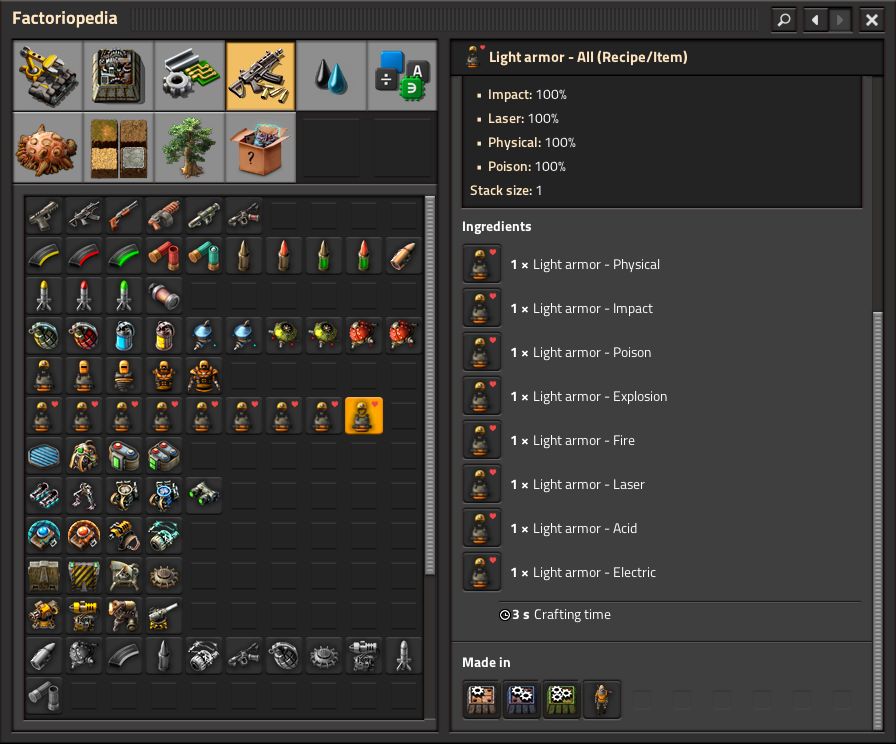
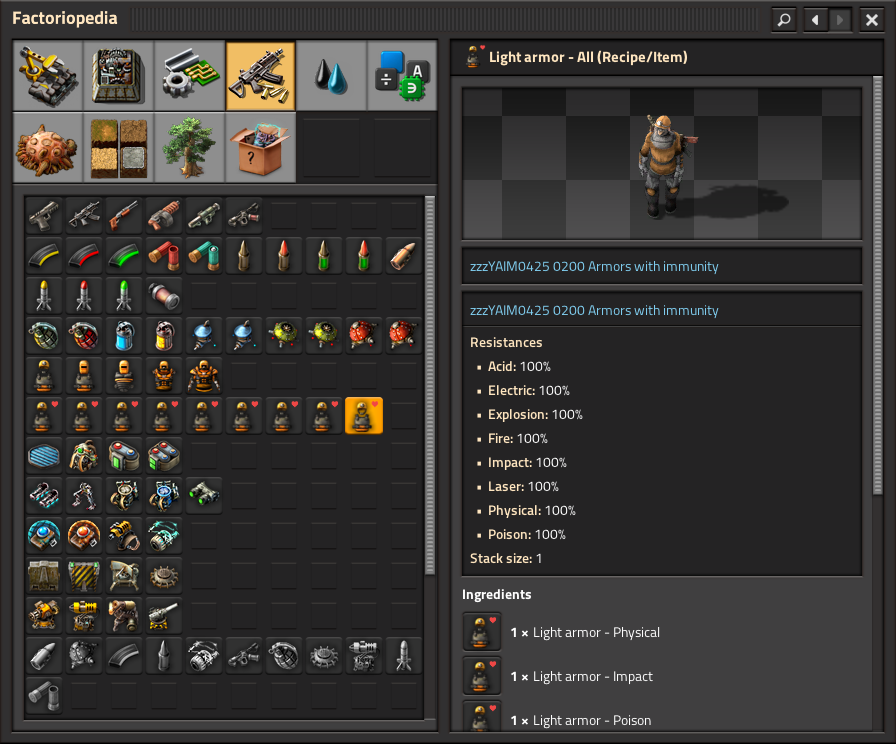
Documentación

Changed region(s): [[0.5, 0.0927, 1.0, 0.9892]]

diff --git a/Doc/factorioplus/README.md b/Doc/factorioplus/README.md
@@ -1,6 +1,13 @@
-![](https://github.com/yaim0425/zzzYAIM0425-0100-sort-items/raw/main/Doc/factorioplus/Screenshot%20(1).png)  
-![](https://github.com/yaim0425/zzzYAIM0425-0100-sort-items/raw/main/Doc/factorioplus/Screenshot%20(2).png)  
-![](https://github.com/yaim0425/zzzYAIM0425-0100-sort-items/raw/main/Doc/factorioplus/Screenshot%20(3).png)  
-![](https://github.com/yaim0425/zzzYAIM0425-0100-sort-items/raw/main/Doc/factorioplus/Screenshot%20(4).png)  
-![](https://github.com/yaim0425/zzzYAIM0425-0100-sort-items/raw/main/Doc/factorioplus/Screenshot%20(5).png)  
-![](https://github.com/yaim0425/zzzYAIM0425-0100-sort-items/raw/main/Doc/factorioplus/Screenshot%20(6).png)  
+![](https://github.com/yaim0425/zzzYAIM0425-0200-armors-with-immunity/raw/main/Doc/factorioplus/Screenshot%20(1).png)  
+![](https://github.com/yaim0425/zzzYAIM0425-0200-armors-with-immunity/raw/main/Doc/factorioplus/Screenshot%20(2).png)  
+![](https://github.com/yaim0425/zzzYAIM0425-0200-armors-with-immunity/raw/main/Doc/factorioplus/Screenshot%20(3).png)  
+![](https://github.com/yaim0425/zzzYAIM0425-0200-armors-with-immunity/raw/main/Doc/factorioplus/Screenshot%20(4).png)  
+![](https://github.com/yaim0425/zzzYAIM0425-0200-armors-with-immunity/raw/main/Doc/factorioplus/Screenshot%20(5).png)  
+![](https://github.com/yaim0425/zzzYAIM0425-0200-armors-with-immunity/raw/main/Doc/factorioplus/Screenshot%20(6).png)  
+![](https://github.com/yaim0425/zzzYAIM0425-0200-armors-with-immunity/raw/main/Doc/factorioplus/Screenshot%20(7).png)  
+![](https://github.com/yaim0425/zzzYAIM0425-0200-armors-with-immunity/raw/main/Doc/factorioplus/Screenshot%20(8).png)  
+![](https://github.com/yaim0425/zzzYAIM0425-0200-armors-with-immunity/raw/main/Doc/factorioplus/Screenshot%20(9).png)  
+![](https://github.com/yaim0425/zzzYAIM0425-0200-armors-with-immunity/raw/main/Doc/factorioplus/Screenshot%20(10).png)
+![](https://github.com/yaim0425/zzzYAIM0425-0200-armors-with-immunity/raw/main/Doc/factorioplus/Screenshot%20(11).png)
+![](https://github.com/yaim0425/zzzYAIM0425-0200-armors-with-immunity/raw/main/Doc/factorioplus/Screenshot%20(12).png)
+![](https://github.com/yaim0425/zzzYAIM0425-0200-armors-with-immunity/raw/main/Doc/factorioplus/Screenshot%20(13).png)
